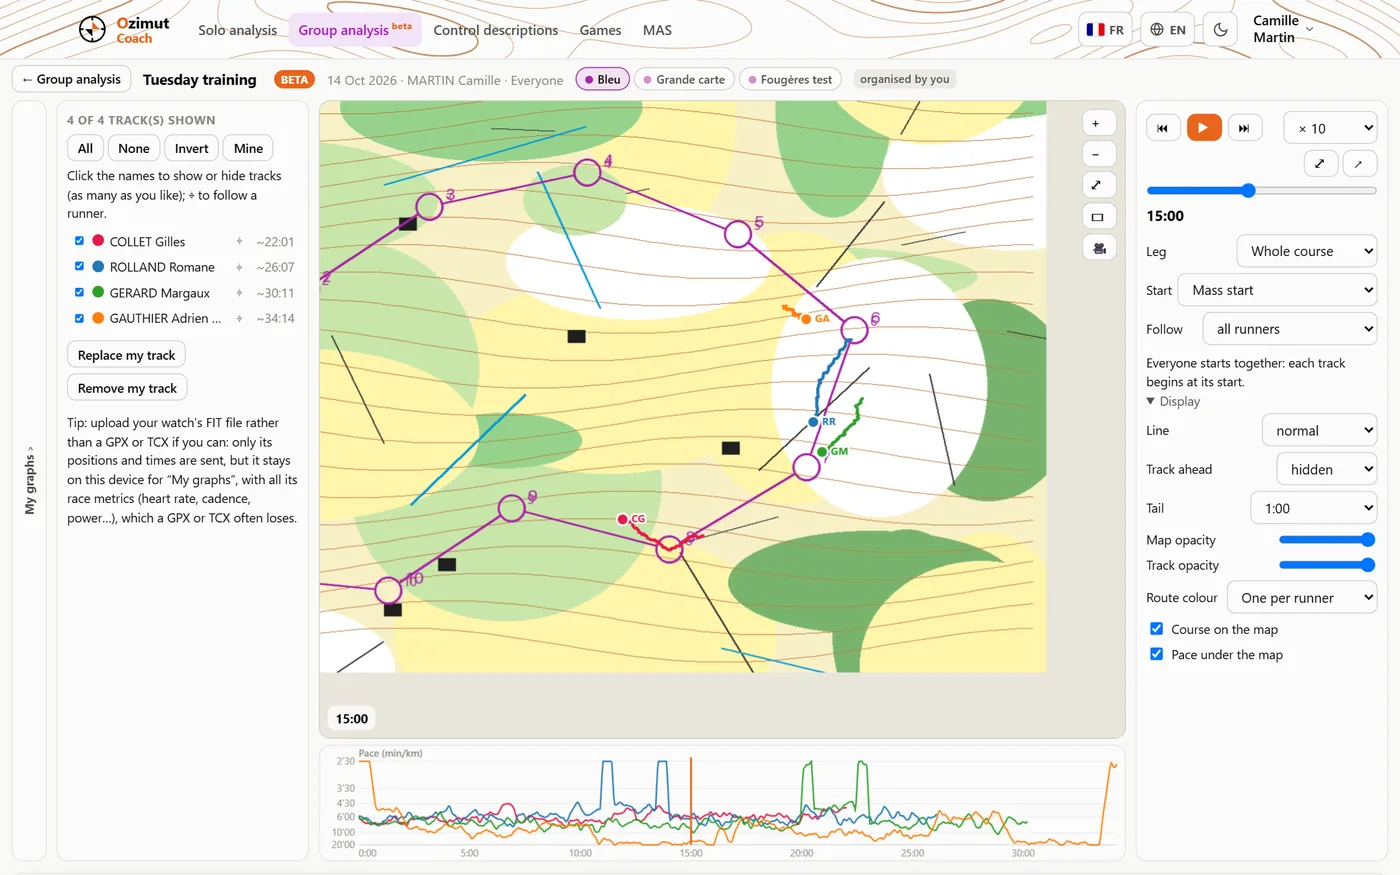
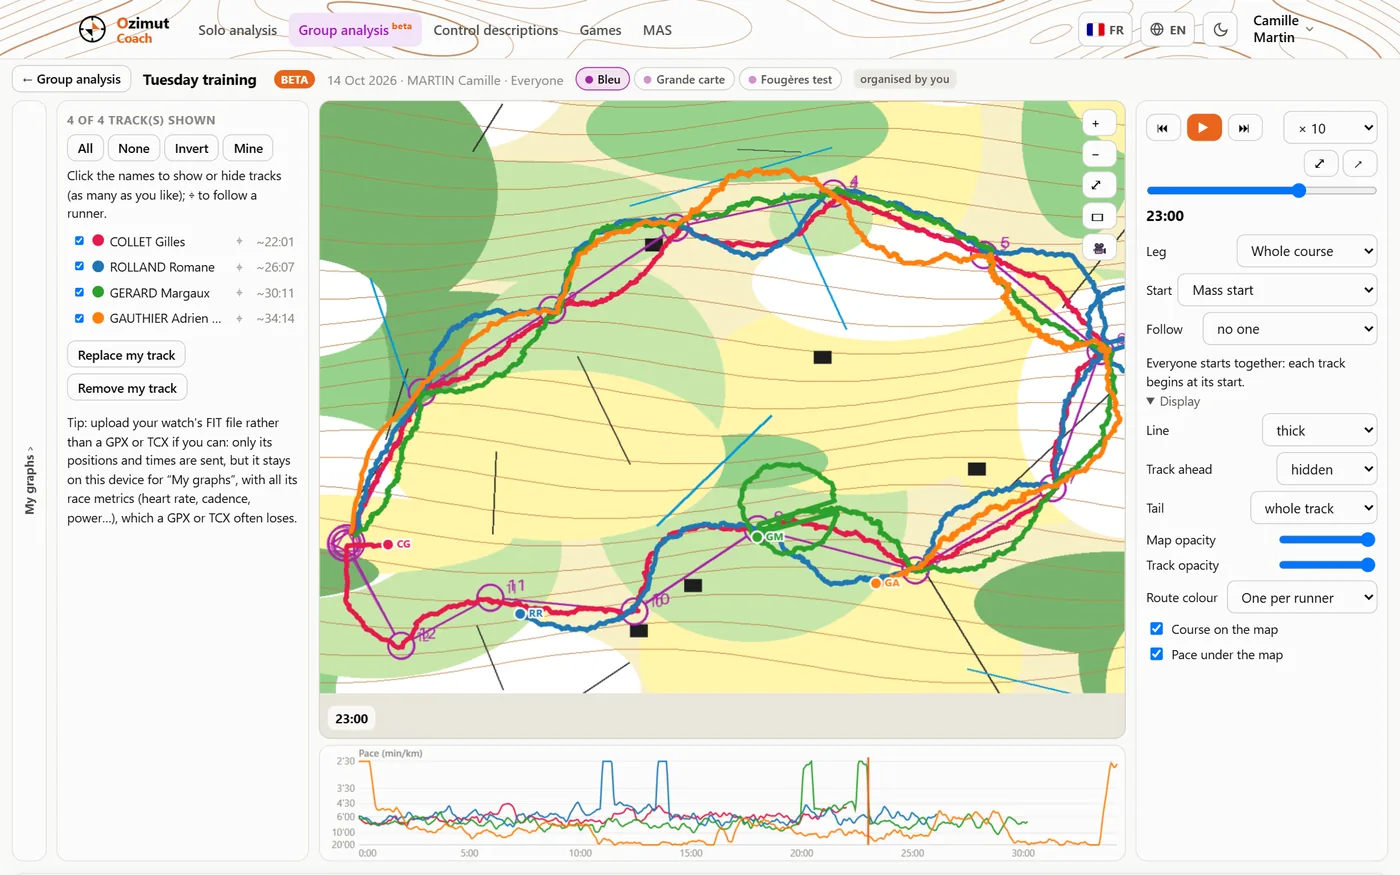
Phone: country and language in the top-right menu; a menu for visitors
On a phone the bar had no room for the page's menu beside the country and
language buttons. Both are now sections of the top-right menu, opening in
place; the theme stays in the bar. Visitors without an account get that
menu back on a phone (country for a guest, language, Documentation, contact,
sign in / create an account), and « Choisir un autre pays » opens it at the
country section.

The home page's Analyse multi picture now shows every runner's whole route
in thick lines later in the race, so the four routes and their variants
read at a glance.

diff --git a/site/assets/js/app.js b/site/assets/js/app.js
@@ -259,6 +259,12 @@ function langMenu() {
   </div>`;
 }
 
+/** On a phone the language is chosen in the top-right menu, as the country (owner, 2026-10-31): a section that opens in place. */
+function langSub() {
+  return html`<details class="menu-sub" data-sub="lang"><summary>${t("st.lang")}<span class="menu-sub-cur">${LANG_NAMES[lang()]}</span></summary>
+    <div class="menu-sub-list" role="menu">${LANGS.map((l) => html`<button type="button" role="menuitemradio" aria-checked="${String(l === lang())}" data-lang-pick="${l}" lang="${l}">${LANG_NAMES[l]}</button>`)}</div></details>`;
+}
+
 /** The relief behind the second row (owner, 2026-10-13, as on the study's page): a few hills, their contour lines
  *  drawn by marching squares in the map's brown, an index contour every fifth line. Redrawn when the bar is, and on resize. */
 function drawContours(retry = 2) {
@@ -423,6 +429,9 @@ function renderHeader(r) {
   const current = menuKey(r);
   document.body.dataset.group = mod || "";
   const caret = raw(`<svg class="caret" width="10" height="10" viewBox="0 0 10 10" aria-hidden="true"><path d="M2 3.5 5 6.5 8 3.5" fill="none" stroke="currentColor" stroke-width="1.6" stroke-linecap="round" stroke-linejoin="round"/></svg>`);
+  // the country and the language, in the top-right menu on a phone (shown there by app.css; the bar's own buttons on a computer)
+  const subs = html`${visitor ? country.subMenu() : ""}${OPEN || me?.admin ? langSub() : ""}`;
+  const subsBlock = String(subs).trim() ? html`<div class="menu-subs">${subs}</div>` : "";
   const navLink = ([k, href, text]) => html`<a class="nav-link" href="${href}" ${raw(k === current ? 'aria-current="page"' : "")} title="${NAV_HINT[k] ? t(NAV_HINT[k]) : ""}">${text}${betaMark(k)}</a>`;
 
   // the relief behind the bar (owner, 2026-10-30: behind the module's menu, no banner of its own under it); the logo and
@@ -450,6 +459,7 @@ function renderHeader(r) {
           <span class="user-name">${(({ first, last }) => html`<span>${first}</span>${last ? html`<span>${last}</span>` : ""}`)(nameParts(me.nom))}</span>
           <svg class="user-icon" width="18" height="18" viewBox="0 0 24 24" fill="none" stroke="currentColor" stroke-width="2" stroke-linecap="round" aria-hidden="true"><circle cx="12" cy="8" r="4"/><path d="M4 21c0-4.4 3.6-7 8-7s8 2.6 8 7"/></svg>${caret}</button>
         <div class="nav-menu">
+          ${subsBlock}
           <a href="${homeOf()}" ${raw(route === "hub" ? 'aria-current="page"' : "")}>${t("mod.pick")}</a>
           <a href="#/documentation" ${raw(route === "methods" ? 'aria-current="page"' : "")}>${t("nav.docs")}</a>
           <a href="#/reglages" ${raw(route === "settings" ? 'aria-current="page"' : "")}>${t("st.link")}</a>
@@ -458,12 +468,24 @@ function renderHeader(r) {
           ${me.admin ? html`<a href="#/admin" ${raw(route === "admin" ? 'aria-current="page"' : "")}>${t("admin.link")}</a>` : ""}
           <button type="button" id="logout-btn">${t("auth.logout")}</button>
         </div>
-      </div>` : visitor ? html`<a class="btn btn-sm btn-primary guest-login" href="#/?s=login">${t("hub.login")}</a>`
+      </div>` : html`${visitor ? html`<a class="btn btn-sm btn-primary guest-login" href="#/?s=login">${t("hub.login")}</a>`
         // signed out: sign in, create an account, or enter without one (owner, 2026-10-30) — not on the home page, whose login
         // card under the hero offers the three (owner, 2026-10-30)
         : route === "overview" ? "" : html`<div class="home-ways"><a class="btn btn-sm" href="#/?s=login">${t("hub.login")}</a>
           <a class="btn btn-sm home-way-reg" href="#/compte/inscription">${t("hub.register")}</a>
           <button type="button" class="btn btn-sm btn-primary" data-guest-enter="">${t("hub.guest.enter")}</button></div>`}
+      <div class="nav-group user-menu visitor-menu" data-group="me">
+        <button type="button" class="icon-btn nav-top" aria-expanded="false" aria-haspopup="menu" aria-label="${t("auth.menu.visitor")}" title="${t("auth.menu.visitor")}">
+          <svg width="18" height="18" viewBox="0 0 24 24" fill="none" stroke="currentColor" stroke-width="2" stroke-linecap="round" aria-hidden="true"><circle cx="12" cy="8" r="4"/><path d="M4 21c0-4.4 3.6-7 8-7s8 2.6 8 7"/></svg></button>
+        <div class="nav-menu">
+          ${subsBlock}
+          ${visitor ? html`<a href="${homeOf()}" ${raw(route === "hub" ? 'aria-current="page"' : "")}>${t("mod.pick")}</a>` : ""}
+          <a href="#/documentation" ${raw(route === "methods" ? 'aria-current="page"' : "")}>${t("nav.docs")}</a>
+          <a href="#/contact?${new URLSearchParams({ from: location.hash || "#/" })}" ${raw(route === "contact" ? 'aria-current="page"' : "")}>${t("ct.link.menu")}</a>
+          ${visitor ? "" : html`<a href="#/?s=login">${t("hub.login")}</a>`}
+          <a href="#/compte/inscription">${t("hub.register")}</a>
+        </div>
+      </div>`}
     </div>
   </div>
 `;

diff --git a/site/assets/js/country.js b/site/assets/js/country.js
@@ -70,21 +70,32 @@ export const flagImg = (cc, cls = "cty-flag") => (cc && /^[A-Z]{2}$/.test(cc)
 /** The header's menu, beside the language's: every country — the account's own first, then a line and the countries Ozimut
  *  has data for, then a line and every other IOF member (owner, 2026-10-29: a country is never left out of this menu; a page's
  *  own « Choisir un autre pays » offers only the countries it has something for, `hint`). */
-export function menu() {
+function items() {
   const ok = withData();
   const cur = current();
   const mine = byName((auth.session()?.countries || []).filter((c) => c.status === "ok").map((c) => c.cc));
   const known = byName(ok.filter((cc) => !mine.includes(cc)));
   const rest = byName(MEMBERS.filter((cc) => !mine.includes(cc) && !ok.includes(cc)));
   const item = (cc) => html`<button type="button" role="menuitemradio" aria-checked="${String(cc === cur)}" data-country-pick="${cc}">${flagImg(cc)}${name(cc)}</button>`;
+  return html`${[mine, known, rest].filter((l) => l.length).map((l, i) => html`${i ? html`<div class="cty-sep" role="separator"></div>` : ""}${l.map(item)}`)}`;
+}
+export function menu() {
+  const cur = current();
   return html`<div class="nav-group lang-menu" data-group="country">
     <button class="icon-btn nav-top" type="button" aria-expanded="false" aria-haspopup="menu" title="${t("cty.menu")}" aria-label="${t("cty.menu")}">
       <span class="tool-label" aria-hidden="true">${t("cty.menu")}</span>
       ${flagImg(cur) || html`<svg width="16" height="16" viewBox="0 0 24 24" fill="none" stroke="currentColor" stroke-width="2" stroke-linecap="round" stroke-linejoin="round" aria-hidden="true"><path d="M5 21V4M5 4h11l-2 4 2 4H5"/></svg>`}
       <span class="lang-code">${cur}</span>
     </button>
-    <div class="nav-menu cty-menu" role="menu">${[mine, known, rest].filter((l) => l.length).map((l, i) => html`${i ? html`<div class="cty-sep" role="separator"></div>` : ""}${l.map(item)}`)}</div>
+    <div class="nav-menu cty-menu" role="menu">${items()}</div>
   </div>`;
+}
+/** On a phone the country is chosen in the top-right menu (owner, 2026-10-31: room in the bar for the page's menu): a section
+ *  that opens in place, the current country on its line. */
+export function subMenu() {
+  const cur = current();
+  return html`<details class="menu-sub" data-sub="country"><summary>${t("cty.menu")}<span class="menu-sub-cur">${flagImg(cur)}${name(cur)}</span></summary>
+    <div class="menu-sub-list cty-menu" role="menu">${items()}</div></details>`;
 }
 
 /** A line above a list of the site's country's (Agenda, Résultats, En direct, Analyse de course): whose list it is, and
@@ -109,12 +120,15 @@ const PREP = {
 };
 const prepOf = (cc) => Object.entries(PREP[lang()] || {}).find(([, l]) => l.includes(cc))?.[0] || "en";
 const openHeaderMenu = () => {
-  const b = document.querySelector('.nav-group[data-group="country"] > .nav-top');
+  let b = document.querySelector('.nav-group[data-group="country"] > .nav-top');
+  const sub = !b?.offsetParent && document.querySelector('.nav-group[data-group="me"] .menu-sub[data-sub="country"]');
+  if (sub) b = sub.closest(".nav-group").querySelector(".nav-top");
   if (!b) return;
   window.scrollTo({ top: 0 });
   // after this click has run its course: the document's own listener (app.js) closes the menus on a click outside them
   setTimeout(() => {
     if (!b.parentElement.classList.contains("open")) b.click();
+    if (sub) sub.open = true;
     b.focus({ preventScroll: true });
   });
 };

diff --git a/site/assets/app.css b/site/assets/app.css
@@ -2643,3 +2643,26 @@ button.cd-letter:hover { background: var(--grp, var(--ink)); color: var(--surfac
   .race-head .lede { display: none; }
   .csv-btn { display: none !important; }
 }
+/* a phone (owner, 2026-10-31): the country and the language in the top-right menu, which visitors without an account have too;
+   the bar keeps the theme */
+.menu-subs, .visitor-menu { display: none; }
+.menu-sub summary { display: flex; align-items: center; gap: 8px; padding: 9px 10px; border-radius: 7px; cursor: pointer; list-style: none;
+  font-weight: 550; font-size: 14px; color: var(--ink-2); }
+.menu-sub summary::-webkit-details-marker { display: none; }
+.menu-sub summary::after { content: ""; width: 7px; height: 7px; margin-left: 4px; border: solid currentColor; border-width: 0 1.6px 1.6px 0;
+  transform: rotate(45deg) translateY(-2px); flex: none; }
+.menu-sub[open] summary::after { transform: rotate(-135deg) translateY(-2px); }
+.menu-sub summary:hover { background: var(--surface-2); color: var(--ink); }
+.menu-sub-cur { margin-left: auto; display: inline-flex; align-items: center; color: var(--ink); font-weight: 620; }
+.menu-sub-cur .cty-flag { margin-right: 6px; }
+.menu-sub-list { display: flex; flex-direction: column; gap: 1px; margin: 0 0 4px 12px; padding-left: 6px; border-left: 2px solid var(--grid);
+  max-height: 42vh; overflow-y: auto; }
+.menu-sub-list button[aria-checked="true"] { background: var(--accent-wash); color: var(--ink); }
+.menu-subs { border-bottom: 1px solid var(--grid); margin-bottom: 4px; padding-bottom: 4px; }
+@media (max-width: 760px) {
+  .menu-subs { display: block; }
+  .visitor-menu { display: block; }
+  .topbar-tools > .lang-menu { display: none; }
+  .user-menu .nav-menu { min-width: min(280px, calc(100vw - 24px)); max-height: calc(100vh - 70px); overflow-y: auto; }
+  .user-menu .nav-menu a, .user-menu .nav-menu button { white-space: normal; }
+}

diff --git a/site/assets/js/i18n/fr.js b/site/assets/js/i18n/fr.js
@@ -2654,4 +2654,5 @@ export default {
   "tour.cap.multi-gaps.b": "Les écarts :", "tour.cap.multi-gaps": "le retard de chacun sur le meilleur, poste après poste ; un clic sur un point remet la relecture à ce passage.",
   "hub.orga.register": "Créer un compte pour l'ouvrir",
   "arena.back": "Compétitions",
+  "auth.menu.visitor": "Menu",
 };

diff --git a/site/assets/js/i18n/en.js b/site/assets/js/i18n/en.js
@@ -3458,4 +3458,5 @@ export default {
   "tour.cap.multi-gaps.b": "The gaps:", "tour.cap.multi-gaps": "everyone's time behind the best, control after control; a click on a point takes the replay to that pass.",
   "hub.orga.register": "Create an account to open it",
   "arena.back": "Competitions",
+  "auth.menu.visitor": "Menu",
 };

diff --git a/CLAUDE.md b/CLAUDE.md
@@ -281,7 +281,7 @@ page puts its own tabs in the bar (`app.placeBarTabs` moves the page's `[data-ba
 2026-10-30: the bar's folded menu stayed open, came twice, would not close on a tap beside it) a race's tabs and Stats' pages are a
 menu in the page instead (`app.pageMenu`): its button before the race's name, or before a Stats page's tabs, the current tab or
 page written on it; a choice, a tap elsewhere or Escape closes it; the bar's menu button goes on those pages (`.pm-on`). A race's
-page on a phone drops the line under its name (`.race-head .lede`); Stats' CSV exports are not offered there (`.csv-btn`). **The
+page on a phone drops the line under its name (`.race-head .lede`); Stats' CSV exports are not offered there (`.csv-btn`). **The country and the language on a phone** (owner, 2026-10-31: room in the bar) are sections of the top-right menu (`.menu-subs`: `country.subMenu`, `app.langSub`, each opening in place), not buttons of the bar; the theme stays in the bar. Visitors without an account have that menu too on a phone (`.visitor-menu`: country for a guest, language, the modules page, Documentation, Nous écrire, sign in for the signed-out, create an account); `country.hint`'s « Tous les pays » opens it at its country section. **The
 source is Ozimut's choice** (owner: « users don't know better »): the results page and the analysis show the best document
 (`run.doc_priority`'s order) and offer the source selector to administrators only; the circuit selector has no « Circuit » /
 « Catégorie » label (« Voir » says it), and no « Temps intermédiaires de ce circuit » button: the race's tabs carry the circuit
@@ -333,7 +333,7 @@ code — `synth/oz2` (`synth-oz2.sqlite3`, `data/` in today's layout), by `build
 sheets — kept in `C:\kerkia\cn-data\scratch-scripts\C--kerkia-CO\7c7246a6-efbb-46e6-a267-01b8966734a0\scratchpad\shots`
 (`npm install` there for puppeteer-core; run from PowerShell). New ones: `hub`, `past`, `descriptions`, `orga-direct`, `phone-hub`.
 Retaken the same evening with the modules' bar, plus `multi` and `multi-gaps`: the local test analysis « Test UI club » (circuit
-« Bleu », the reel's invented map), whose title, organiser and runners `lib.mjs` replaces with invented ones
+« Bleu », the reel's invented map; `multi` at 23:00, nobody followed, every runner's whole route in thick lines — `ocn.sh.prefs` tail 0, width 2.4 — so that the four routes and their variants show, owner 2026-10-31), whose title, organiser and runners `lib.mjs` replaces with invented ones
 (`/api/analyses/<id>` and `/traces/<n>`, fetched with the page's cookies) — never take them without that. `past` must open in a
 fresh page: an Agenda address opened from the Agenda keeps the page's periods.
 
